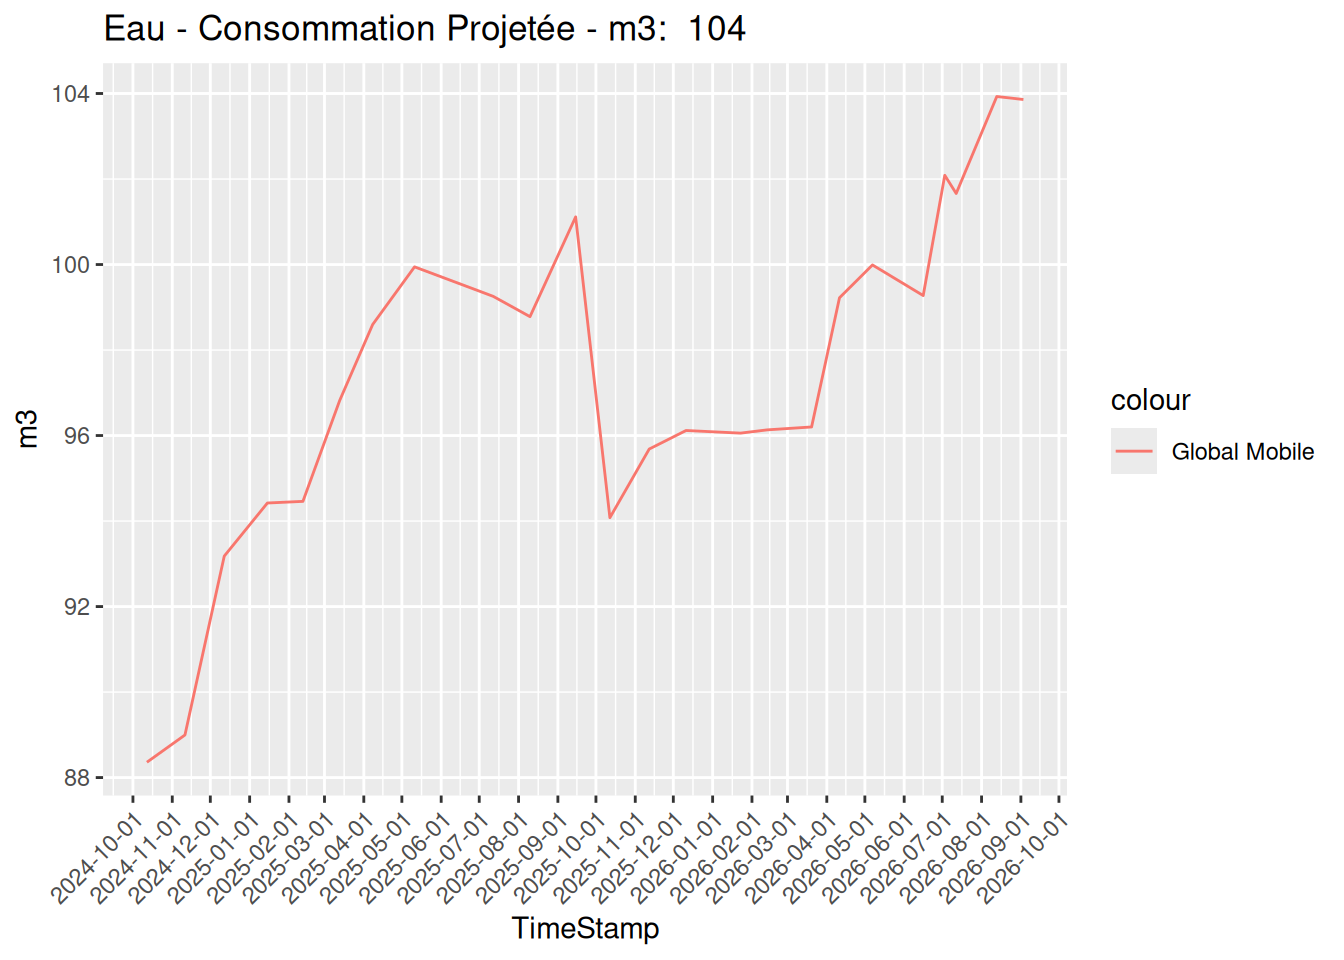
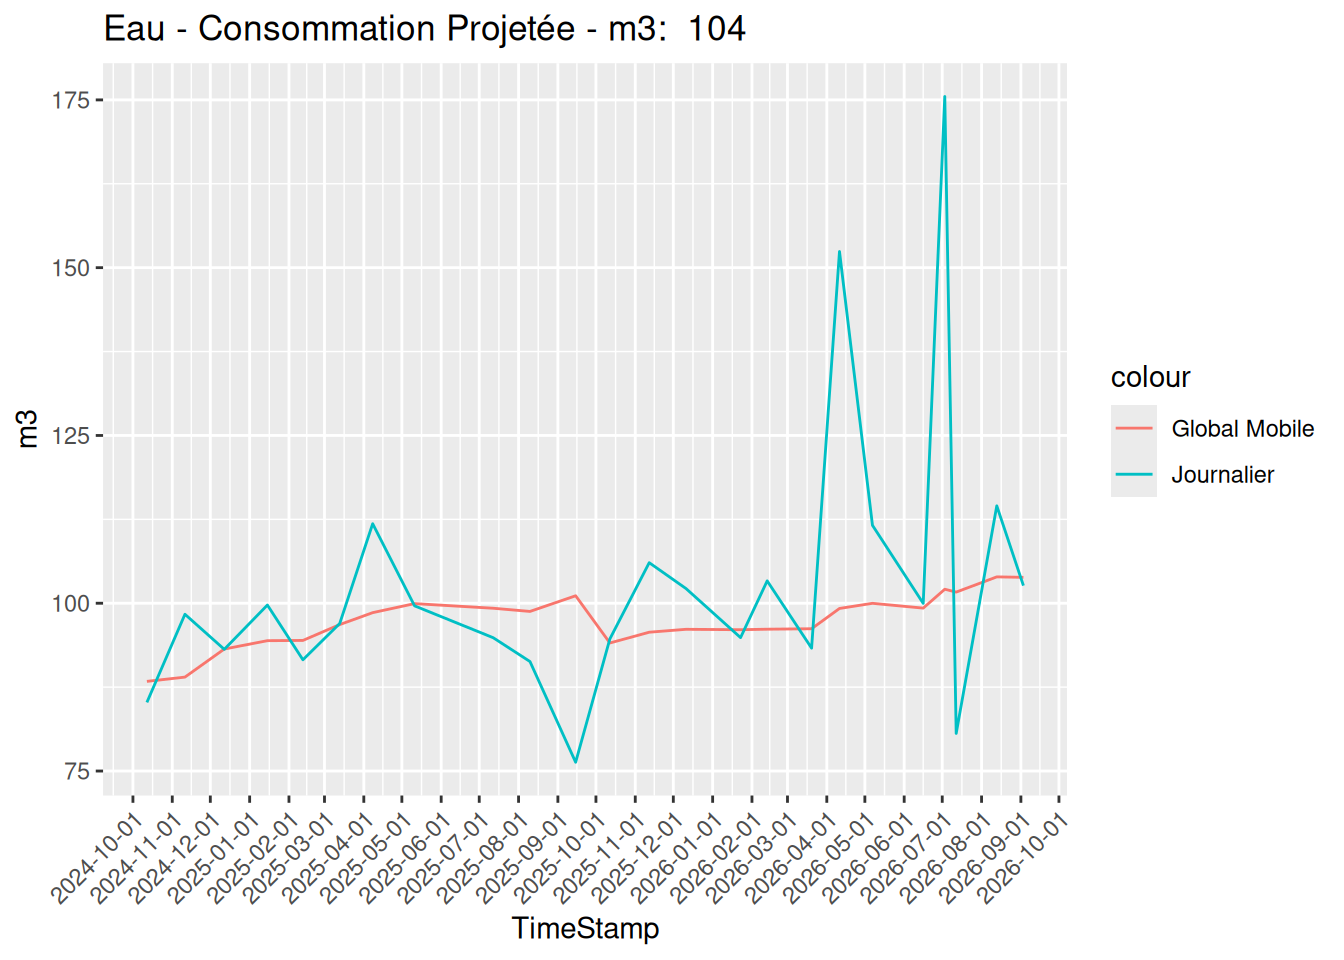
Prepare Electricité

diff --git a/README.md b/README.md
@@ -2,7 +2,7 @@ Nouvelle version de suivi des énergies en Septembre 2026<br>
 Source = Log_Energie.csv et on n' a plus besoin des db's sauf pour Mazout
 ce code est un modèle pour le titre, le garbage collection et le placement des  fichiers html dans un dossier à part.<br>
 on a un html par script dans la main directoryet on peut tous les supprimer car on a un back-ip dans ./Rapports <br>
-V01 : Injection Eau
-V02 : Injection Boiler et Piscine
+V01 : Injection Eau<br>
+V02 : Injection Boiler et Piscine<br>
 
 
